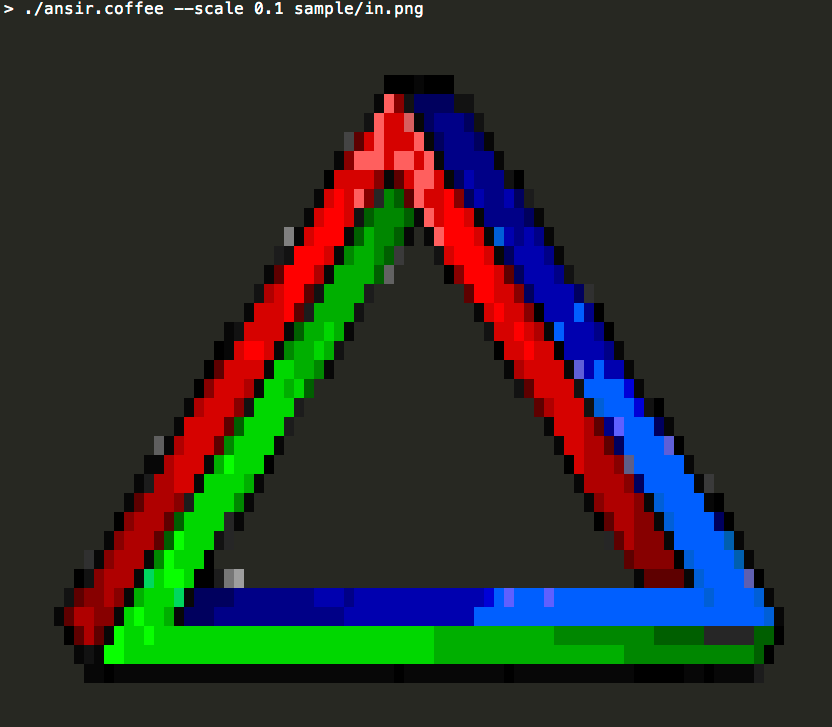
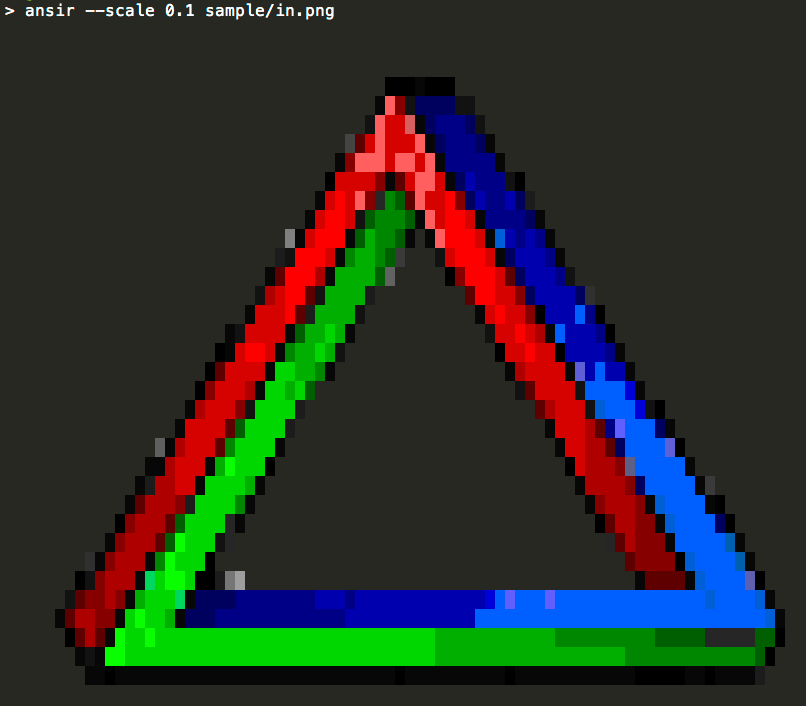
refactor CLI. add more samples to readme. add more unit tests.

Changed region(s): [[0.062, 0.0935, 0.9926, 0.9972], [0.0, 0.0, 0.5273, 0.0312]]

diff --git a/ansir-api.js b/ansir-api.js
@@ -1,0 +1,22 @@
+module.exports = (function(){
+  png            = require('./src/png');
+  configure      = require('./src/config');
+  ansi           = require('./src/ansi-codes');
+  octree         = require('./src/octree');
+
+  blockRenderer  = require('./src/renderers/block');
+  shadedRenderer = require('./src/renderers/shaded-block');
+  subRenderer    = require('./src/renderers/sub-block');
+
+  return {
+    ansi      : ansi,
+    configure : configure,
+    octree    : octree,
+    png       : png,
+    renderer  : {
+      block  : blockRenderer,
+      shaded : shadedRenderer,
+      sub    : subRenderer
+    }
+  };
+})();

diff --git a/ansir-cli.js b/ansir-cli.js
@@ -1,0 +1,7 @@
+#!/usr/bin/env node
+
+// CoffeScript CLI shim
+if (require.main === module){
+  require('coffee-script').register();
+  require('./ansir-cli.coffee');
+}

diff --git a/README.md b/README.md
@@ -11,7 +11,7 @@ Supports both the basic and extended ANSI color escape sequences. Note: Full 24-
 
 ### Installation
 
-    npm install -g ansir coffee-script
+    npm install -g ansir
 
 ### Generate artwork
 
@@ -30,6 +30,14 @@ Supports both the basic and extended ANSI color escape sequences. Note: Full 24-
 #### Output (10% scale)
 
 ![output](sample/out.png?raw=true)
+
+### Renderers
+
+Ansir supports 3 modes of rendering, shown in the following table:
+
+| Block | Shaded | Sub |
+|-------|--------|-----|
+|![block](sample/render-block.png?raw=true)|![shaded](sample/render-shaded.png?raw=true)|![sub](sample/render-sub.png?raw=true)|
 
 ### Usage
 
